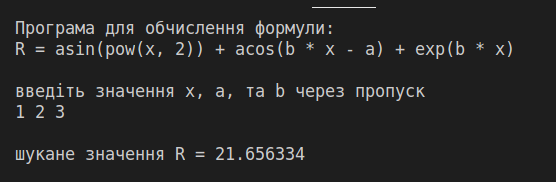
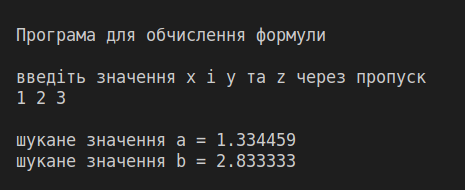
fix: laba 1

diff --git a/src/docs/programming/laba1/index.js b/src/docs/programming/laba1/index.js
@@ -1,6 +1,5 @@
 import chart from "./flowchart.mmd";
 import text from "./text.md";
-import text1 from "./text1.md";
 import code from "./code.c";
 import titleSheet from "@/common/programming-laba-title-sheet.html";
 import { render } from "@/core";
@@ -24,16 +23,17 @@ const blocks = [
     title: "Блок-схема алгоритму",
     type: "mermaid",
     content: chart,
+    vars: {
+      id: "flowchart",
+    },
   },
   {
     title: "Вихідний код програми",
     type: "code",
     content: code,
-  },
-  {
-    title: "Скріншоти виконання програми",
-    type: "markdown",
-    content: text1,
+    vars: {
+      id: "code",
+    },
   },
 ];
 

diff --git a/src/docs/programming/laba1/code.c b/src/docs/programming/laba1/code.c
@@ -1,25 +1,22 @@
 #include <math.h>
 #include <stdio.h>
 
+#define SQU 2 // константа для степеню 2
+
 int main()
 {
-    float x, a, b; // вихідні змінні
-    float R;       // результат
+    float x, y, z; // вихідні змінні
+    float a, b;    // шукані змінні
 
-    printf("Програма для обчислення формули:\n");
-    printf("R = asin(pow(x, 2)) + acos(b * x - a) + exp(b * x)\n\n");
-    printf("введіть значення x, a, та b через пропуск\n");
+    printf("Програма для обчислення формули\n\n");
+    printf("введіть значення x і y та z через пропуск\n");
 
-    scanf("%f%f%f", &x, &a, &b);
+    scanf("%f%f%f", &x, &y, &z);
 
-    if (fabs(a) <= 1 && fabs(b * x - a) <= 1)
-    {
-        printf("Формула не визначена при введених значеннях x, a, та b\n\n");
-        return 0;
-    }
+    a = (3 + exp(y - 1)) / ((1 + pow(x, SQU)) * fabs(y - tan(z)));
+    b = 1 + fabs(y - x) + pow(y - x, SQU) / 2 + pow(fabs(y - x), SQU) / 3;
 
-    R = asin(pow(x, 2)) + acos(b * x - a) + exp(b * x);
-
-    printf("\nшукане значення R = %f \n\n", R);
+    printf("\nшукане значення a = %f \n", a);
+    printf("шукане значення b = %f \n\n", b);
     return 0;
 }

diff --git a/src/docs/programming/laba1/text.md b/src/docs/programming/laba1/text.md
@@ -1,24 +1,35 @@
-# ПРОСТА ОБЧИСЛЮВАЛЬНА ПРОГРАМА
-
-### Мета лабораторної роботи:
-
-Навчитись синтаксично правильно будувати програму мовою
-програмування C, коректно користуватись можливостями середовища
-програмування для її запуску та отримання результату роботи; навчитись
-складати та вміти перевірити семантику простої обчислювальної програми, що
-реалізує лінійний алгоритм.
-
-### Цілі лабораторної роботи
-
-1. Проаналізувати умову задачі.
-2. Розробити алгоритм та створити програму розв’язання задачі згідно з номером варіанту.
-
 ### Завдання
 
-$$R = \arcsin a^2 + \arccos (bx-a) + e^{bx}
-$$
+$$ a = \frac{3 + e^{y-1}}{1 + x^2 \left| y - \tg z \right|}; b = 1 + \left| y - x \right| + \frac{(y - x)^2}{2} + \frac{\left| y - x \right|^2}{3} $$
 
-### Аналіз умов задачі
+### 1. Аналіз умов задачі.
 
-Фунцкії arcsin та arccos визначені лише на проміжку [-1;1], тому формула визначена лише для таких значень a,b,x, якщо $|a| \le 1, |bx-a| \le 1$. Отже існує необхідність перевірки вихідних даних чи визначена формула для даних вихідних значень a,b,x.
-Отже програма потребує три вхідні змінні `a,b,x` типу `float` та одну вихідну змінну `R` також типу `float`
+Виходячи з умови задачі, можна сказати, що задача не вимагає розбиття на підзадачі, всі дії виконуватимуться послідовно, тобто, алгоритм розв’язку буде лінійним. Вхідних змінних – три: x, y та z, тип даних – дійсні числа. Вихідних змінних – дві: a та b, тип даних – дійсні чисао. Формули для розрахунку: 
+
+    a = (3 + exp(y - 1)) / ((1 + pow(x, SQU)) * fabs(y - tan(z)));
+
+    b = 1 + fabs(y - x) + pow(y - x, SQU) / 2 + pow(fabs(y - x), SQU) / 3;
+
+Обидві формули як для змінної a, так і для змінної b визначені при будь яких значеннях x, y та z. Отже немає необхідності у перевірці вхідних значень.
+
+### 2. Блок-схема алгоритму.
+
+Блок-схема алгоритму представлена на рисунку 1.
+
+<div id="flowchart"></div>
+
+Рисунок 1 – Блок схема алгоритму обчислення формули
+
+### 3. Код програми.
+
+<div id="code"></div>
+
+Результат роботи програми наведено на рисунку 2.
+
+![screenshot1](./screenshot1.png)
+
+Рисунок 2 – Результат роботи програми у випадку, якщо формула визначена при введених даних.
+
+### 4. Висновки
+
+В ході виконання лабораторної роботи №1 було розроблено алгоритм розв’язку задачі знаходження значень формул та реалізовано мовою програмування С. Алгоритм є лінійним, оскільки всі дії виконуються послідовно. Всі використані змінні мають тип – дійсні числа. Для виведення результату застосовано форматоване виведення.
